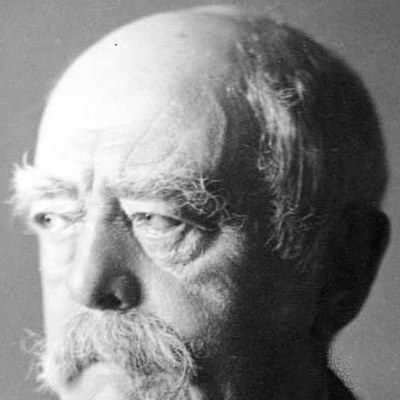
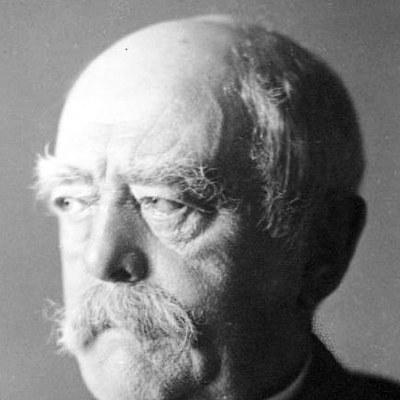
v5: arrow clearances, centred badges, bar heights, Straits route, Bismarck crop

diff --git a/index.html b/index.html
@@ -63,7 +63,7 @@
   .tag{position:absolute;--tf:translate(-50%,-150%);transform:var(--tf);background:rgba(21,18,15,.95);border:3px solid var(--gold);color:var(--cream);padding:8px 18px;border-radius:12px;font:700 28px/1.2 var(--sans);white-space:nowrap}
   .tag.red{border-color:var(--red)} .tag.green{border-color:var(--green)}
   .tag.below{--tf:translate(-50%,45%)} .tag.right{--tf:translate(10%,-50%)} .tag.left{--tf:translate(-110%,-50%)}
-  .badge{position:absolute;--tf:translate(-50%,-50%);transform:var(--tf);width:54px;height:54px;border-radius:50%;background:var(--red);color:#fff;font:700 30px/54px var(--sans);text-align:center;border:4px solid var(--ink)}
+  .badge{position:absolute;--tf:translate(-50%,-50%);transform:var(--tf);width:54px;height:54px;border-radius:50%;background:var(--red);color:#fff;font:700 30px/46px var(--sans);text-align:center;border:4px solid var(--ink)}
   .badge.gold{background:var(--gold);color:var(--ink)} .badge.green{background:var(--green);color:var(--ink)} .badge.blue{background:var(--blue);color:var(--ink)}
   .badge.pulse::after{content:"";position:absolute;inset:-6px;border-radius:50%;border:4px solid var(--red);animation:pulse 1.6s ease-out infinite}
   @keyframes pulse{0%{transform:scale(.8);opacity:1}100%{transform:scale(2.6);opacity:0}}
@@ -75,7 +75,7 @@
   .ev.red figure img{border-color:var(--red)} .ev.blue figure img{border-color:var(--blue)} .ev.green figure img{border-color:var(--green)}
   .ev figure img.sq{border-radius:12px;width:130px;height:92px}
   .ev figcaption{font:700 26px/1.1 var(--sans);margin-top:6px;color:var(--cream)}
-  .ev .n{position:absolute;left:6px;top:-6px;width:40px;height:40px;border-radius:50%;background:var(--gold);color:var(--ink);font:700 26px/40px var(--sans);text-align:center;border:3px solid var(--card)}
+  .ev .n{position:absolute;left:6px;top:-6px;width:40px;height:40px;border-radius:50%;background:var(--gold);color:var(--ink);font:700 26px/34px var(--sans);text-align:center;border:3px solid var(--card)}
   .ev.red .n{background:var(--red);color:#fff} .ev.blue .n{background:var(--blue)} .ev.green .n{background:var(--green)}
   .ev .t{min-width:0;flex:1} .ev .t b{display:block;font:700 30px/1.15 var(--sans)} .ev .t span{display:block;font:400 26px/1.25 var(--sans);color:var(--muted);margin-top:4px}
   .ev.hero{background:#3a3222;border-color:var(--gold);padding:18px 22px} .ev.hero .t b{font:700 32px/1.2 var(--serif);color:var(--gold)}
@@ -108,6 +108,7 @@
   .tree .edge.red{stroke:var(--red)} .tree .edge.gold{stroke:var(--gold)} .tree .edge.grey{stroke:#6b6258}
   .tree .node{fill:var(--card);stroke:#6b6258;stroke-width:4}
   .tree .node.red{stroke:var(--red)} .tree .node.gold{stroke:var(--gold);fill:#3a3222}
+  .tree .frag{transition:none;transform:none}
 
   /* charts */
   .barrow{display:flex;align-items:center;gap:24px;margin:16px 0}
@@ -120,8 +121,8 @@
   .days.on i{animation:fillred .02s linear forwards}
   .days i.pay{background:var(--gold) !important;animation:none !important}
   @keyframes fillred{to{background:#8a3a30}}
-  .vchart{display:flex;align-items:flex-end;gap:40px;height:300px}
-  .vchart .vb{flex:1;display:flex;flex-direction:column;justify-content:flex-end;align-items:center;height:100%}
+  .vchart{display:flex;align-items:flex-end;gap:40px;height:320px}
+  .vchart .vb{flex:1;display:flex;flex-direction:column;justify-content:flex-end;align-items:center;height:320px}
   .vchart .vbar{width:100%;border-radius:12px 12px 0 0;background:var(--blue);height:0;transition:height 1.4s cubic-bezier(.2,.8,.2,1)}
   .vchart .vbar.red{background:var(--red)}
   .frag.on .vchart .vbar{height:var(--h)}
@@ -197,8 +198,8 @@
       <div class="key"><div class="kt">1914</div><div class="kr"><i class="sw" style="background:#afa239"></i>Triple Alliance</div><div class="kr"><i class="sw" style="background:#82bd59"></i>Triple Entente</div><div class="kr"><i class="sw" style="background:#f4e2ba"></i>Neutral</div></div>
       <svg class="overlay" viewBox="0 0 1000 592" preserveAspectRatio="none">
         <defs><marker id="ahr" viewBox="0 0 10 10" refX="8" refY="5" markerWidth="5" markerHeight="5" orient="auto-start-reverse"><path d="M0 0L10 5L0 10z" fill="#e0584a"/></marker></defs>
-        <g class="frag fade" data-step="1"><path class="arrow red" d="M505 290 Q 525 345 536 398" marker-end="url(#ahr)"/></g>
-        <g class="frag fade" data-step="2"><path class="arrow red" d="M625 73 Q 580 160 510 282" marker-end="url(#ahr)"/></g>
+        <g class="frag fade" data-step="1"><path class="arrow red" d="M516 328 Q 528 355 533 384" marker-end="url(#ahr)"/></g>
+        <g class="frag fade" data-step="2"><path class="arrow red" d="M612 98 Q 575 170 528 250" marker-end="url(#ahr)"/></g>
       </svg>
       <div class="badge frag fade" data-step="1" style="left:50.5%;top:49%">1</div>
       <div class="pin red frag fade" data-step="1" style="left:53.9%;top:67.7%"></div>
@@ -300,14 +301,14 @@
       <svg class="overlay" viewBox="0 0 1000 592" preserveAspectRatio="none">
         <defs><marker id="ahg" viewBox="0 0 10 10" refX="8" refY="5" markerWidth="5" markerHeight="5" orient="auto-start-reverse"><path d="M0 0L10 5L0 10z" fill="#e2b45c"/></marker><marker id="ahgr" viewBox="0 0 10 10" refX="8" refY="5" markerWidth="5" markerHeight="5" orient="auto-start-reverse"><path d="M0 0L10 5L0 10z" fill="#7fae6a"/></marker></defs>
         <g class="frag fade" data-step="2">
-          <path d="M725 345 Q 710 400 696 456 Q 680 500 640 530" class="arrow blue dash"/>
-          <circle class="dot" r="7" fill="#6fa7c7" style="offset-path:path('M725 345 Q 710 400 696 456 Q 680 500 640 530')"/>
-          <circle class="dot" r="7" fill="#6fa7c7" style="offset-path:path('M725 345 Q 710 400 696 456 Q 680 500 640 530')"/>
-          <circle class="dot" r="7" fill="#6fa7c7" style="offset-path:path('M725 345 Q 710 400 696 456 Q 680 500 640 530')"/>
-          <circle class="dot" r="7" fill="#6fa7c7" style="offset-path:path('M725 345 Q 710 400 696 456 Q 680 500 640 530')"/>
+          <path d="M725 345 Q 710 400 696 456 Q 678 493 624 500" class="arrow blue dash"/>
+          <circle class="dot" r="7" fill="#6fa7c7" style="offset-path:path('M725 345 Q 710 400 696 456 Q 678 493 624 500')"/>
+          <circle class="dot" r="7" fill="#6fa7c7" style="offset-path:path('M725 345 Q 710 400 696 456 Q 678 493 624 500')"/>
+          <circle class="dot" r="7" fill="#6fa7c7" style="offset-path:path('M725 345 Q 710 400 696 456 Q 678 493 624 500')"/>
+          <circle class="dot" r="7" fill="#6fa7c7" style="offset-path:path('M725 345 Q 710 400 696 456 Q 678 493 624 500')"/>
         </g>
-        <g class="frag fade" data-step="3"><path class="arrow green" d="M262 262 Q 440 60 622 73" marker-end="url(#ahgr)"/></g>
-        <g class="frag fade" data-step="4"><path class="arrow" d="M460 184 Q 545 90 622 75" marker-end="url(#ahg)"/></g>
+        <g class="frag fade" data-step="3"><path class="arrow green" d="M268 240 Q 440 60 612 70" marker-end="url(#ahgr)"/></g>
+        <g class="frag fade" data-step="4"><path class="arrow" d="M486 154 Q 545 90 610 80" marker-end="url(#ahg)"/></g>
       </svg>
       <div class="badge gold frag fade" data-step="1" style="left:53.9%;top:67.7%">1</div>
       <div class="badge blue frag fade" data-step="2" style="left:69.6%;top:77%">2</div>
@@ -342,9 +343,9 @@
       </div>
       <div class="card glass frag col" data-step="2" style="display:flex;flex-direction:column">
         <div class="lead sm">Black Sea exports, million roubles</div>
-        <div class="vchart" style="margin-top:14px;flex:1">
-          <div class="vb"><div class="vv">568</div><div class="vbar" style="--h:100%"></div><div class="vl">1911</div></div>
-          <div class="vb"><div class="vv red">433</div><div class="vbar red" style="--h:76%"></div><div class="vl">1912 · <span class="red">Straits closed</span></div></div>
+        <div class="vchart" style="margin-top:14px">
+          <div class="vb"><div class="vv">568</div><div class="vbar" style="--h:220px"></div><div class="vl">1911</div></div>
+          <div class="vb"><div class="vv red">433</div><div class="vbar red" style="--h:168px"></div><div class="vl">1912 · <span class="red">Straits closed</span></div></div>
         </div>
       </div>
     </div>
@@ -455,7 +456,7 @@
     <div class="kicker">"Talk is cheap. Commitments are expensive."</div>
     <h2>Expensive for Germany to break.</h2>
     <div class="inst frag" data-step="1" id="inst">
-      <div class="yr"><div class="blk">paid on signature</div><div class="y">Year 1</div></div>
+      <div class="yr"><div class="blk">Paid on signature</div><div class="y">Year 1</div></div>
       <div class="yr"><div class="blk"></div><div class="y">Year 2</div></div>
       <div class="yr"><div class="blk"></div><div class="y">Year 3</div></div>
       <div class="yr"><div class="blk"></div><div class="y">Year 4</div></div>
@@ -480,10 +481,10 @@
       <svg class="overlay" viewBox="0 0 1000 592" preserveAspectRatio="none">
         <defs><marker id="ahr3" viewBox="0 0 10 10" refX="8" refY="5" markerWidth="5" markerHeight="5" orient="auto-start-reverse"><path d="M0 0L10 5L0 10z" fill="#e0584a"/></marker></defs>
         <g class="chain">
-          <g class="frag fade" data-step="1"><path class="arrow red broken" d="M625 73 Q 580 160 510 282" marker-end="url(#ahr3)"/></g>
-          <g class="frag fade" data-step="2"><path class="arrow red broken" d="M262 262 Q 330 255 400 232" marker-end="url(#ahr3)"/></g>
-          <g class="frag fade" data-step="3"><path class="arrow red broken" d="M455 188 Q 380 205 300 225" marker-end="url(#ahr3)"/></g>
-          <g class="frag fade" data-step="4"><path class="arrow red broken" d="M232 176 Q 262 198 290 222" marker-end="url(#ahr3)"/></g>
+          <g class="frag fade" data-step="1"><path class="arrow red broken" d="M612 98 Q 575 170 512 278" marker-end="url(#ahr3)"/></g>
+          <g class="frag fade" data-step="2"><path class="arrow red broken" d="M300 256 Q 350 248 420 218" marker-end="url(#ahr3)"/></g>
+          <g class="frag fade" data-step="3"><path class="arrow red broken" d="M420 196 Q 370 208 308 220" marker-end="url(#ahr3)"/></g>
+          <g class="frag fade" data-step="4"><path class="arrow red broken" d="M252 192 Q 265 205 280 216" marker-end="url(#ahr3)"/></g>
           <g class="frag fade" data-step="5"><path class="cross" d="M540 150 L 600 210 M600 150 L 540 210"/></g>
         </g>
       </svg>
@@ -492,7 +493,6 @@
       <div class="badge frag fade" data-step="3" style="left:46%;top:31%">3</div>
       <div class="badge frag fade" data-step="4" style="left:23.2%;top:29.7%">4</div>
       <div class="pin red frag fade" data-step="3" style="left:29.3%;top:38%"></div>
-      <div class="tag red frag right" data-step="3" style="left:30%;top:38%">Belgium</div>
     </div>
     <div class="story">
       <div class="ev red frag" data-step="1"><figure><img src="assets/faces/nicholas.jpg" alt=""><div class="n">1</div><figcaption>Nicholas II</figcaption></figure><div class="t"><b>Russia attacks Austria</b><span>Tsar of Russia</span></div></div>
